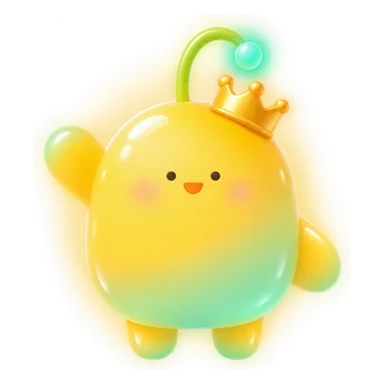
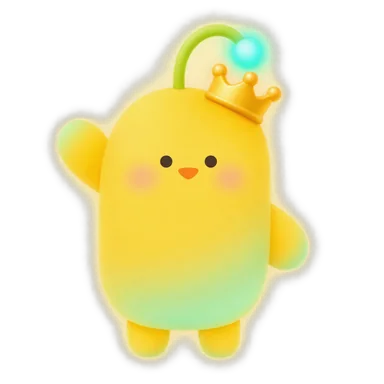
루미 그림 눈 하나 수정, 잘못된 기준 그림 교체, 사이트 그림과 첫 화면 개선 : design : 이미지 하네스 기준 그림이 눈 하나인 일과완료 루미여서 다시 그린 그림이 눈 하나를 따라갔다. 기준을 디자이너 원본 몸(refs/lumi_body.png)과 정면 얼굴(refs/lumi_face.png)로 바꾸고, STYLE 에 눈 두 개, 비율, 요청 없는 캐릭터 금지, 광택 금지, 기존 그림 다시 그리는 법을 적었다. 앱 그림 8장(일과완료, 소개 카드, 크레딧 부족, 크레딧 소진, 광고 보상, Pro, 카드 만들기 실패, 일시 

diff --git a/docs/image-harness/STYLE.md b/docs/image-harness/STYLE.md
@@ -1,0 +1,37 @@
+# elum art guide
+
+> Read by the agent before every image request. Keep it short and concrete.
+
+## Look
+- Medium and style: soft rounded 3D-ish shapes with a **matte, airbrushed gradient finish**, like the designer's Lumi (refs/lumi_body.png, refs/lumi_face.png). Friendly and calm.
+- Line and shading: no outlines. Smooth gradients, soft inner glow. **No glossy specular highlights, no wet shine, no jelly or vinyl reflections, no rim light, no heavy bloom** (#1332: gloss made the art look AI-made).
+- Palette: warm yellow (#FFD629), mint (#55CFBA), peach (#FFC9BB), soft periwinkle (#9CADF1), cream background (#F7F2EF). Pastel, medium saturation. Avoid dark or neon colors.
+- Lighting: soft even light, very soft contact shadow only. No platforms or pedestals under characters unless asked.
+
+## Reference images
+- refs/lumi_body.png: designer's original Lumi (Figma). Body proportion: tall rounded bean body, short stubby arms, two small feet, sprout antenna with a glowing mint bulb. Ignore its angry eyebrows.
+- refs/lumi_face.png: Lumi's face and finish. Two round dark eyes, small orange beak between and slightly below them, matte gradient yellow to mint at the bottom.
+- refs/star_big.png: material and glow of small objects (icons, items)
+
+## Lumi rules (never break)
+- **Always two eyes, both fully visible, symmetric, facing the viewer (front or slight 3/4 at most).** Never a side profile that hides one eye. Exception: a wink when the brief asks for it.
+- Face: eyes and beak sit in the upper middle of the body, beak is a small orange triangle. No mouth line, no teeth, no eyebrows unless the brief asks for an emotion.
+- Proportion: body about 1.25x taller than wide, head and body are one shape, arms short, feet small. Do not stretch, squash or make the head separate.
+- **Draw only Lumi unless the brief names another character.** Never add an extra small creature, baby, child or companion.
+
+## Redrawing an existing asset (#1332)
+- Keep pose and props: pass the existing asset as the FIRST reference, then refs/lumi_face.png and refs/lumi_body.png, in one flag: `--ref <asset> refs/lumi_face.png refs/lumi_body.png` (repeating `--ref` keeps only the last one).
+- Prompt: "redraw the first reference faithfully, change only: two eyes, body proportion, matte finish".
+- Judge on a gray `board` next to the old asset at full size; count the eyes.
+
+## Layout rules for this app
+- Icons and items: one object, centered, about 10% padding, readable at 48 px
+- Transparent background for anything placed on cards
+
+## Never
+- Text, letters, numbers, logos, watermarks, frames
+- Stars as a symbol for credits (stars are the child's reward)
+- Coins, money, banknotes, gambling or loot-box imagery
+- Photo-real, flat vector, or hard-edged styles
+- Glossy plastic, jelly or vinyl toy shine
+- Drawing with code (SVG, PIL, canvas). Images come from the image model only
